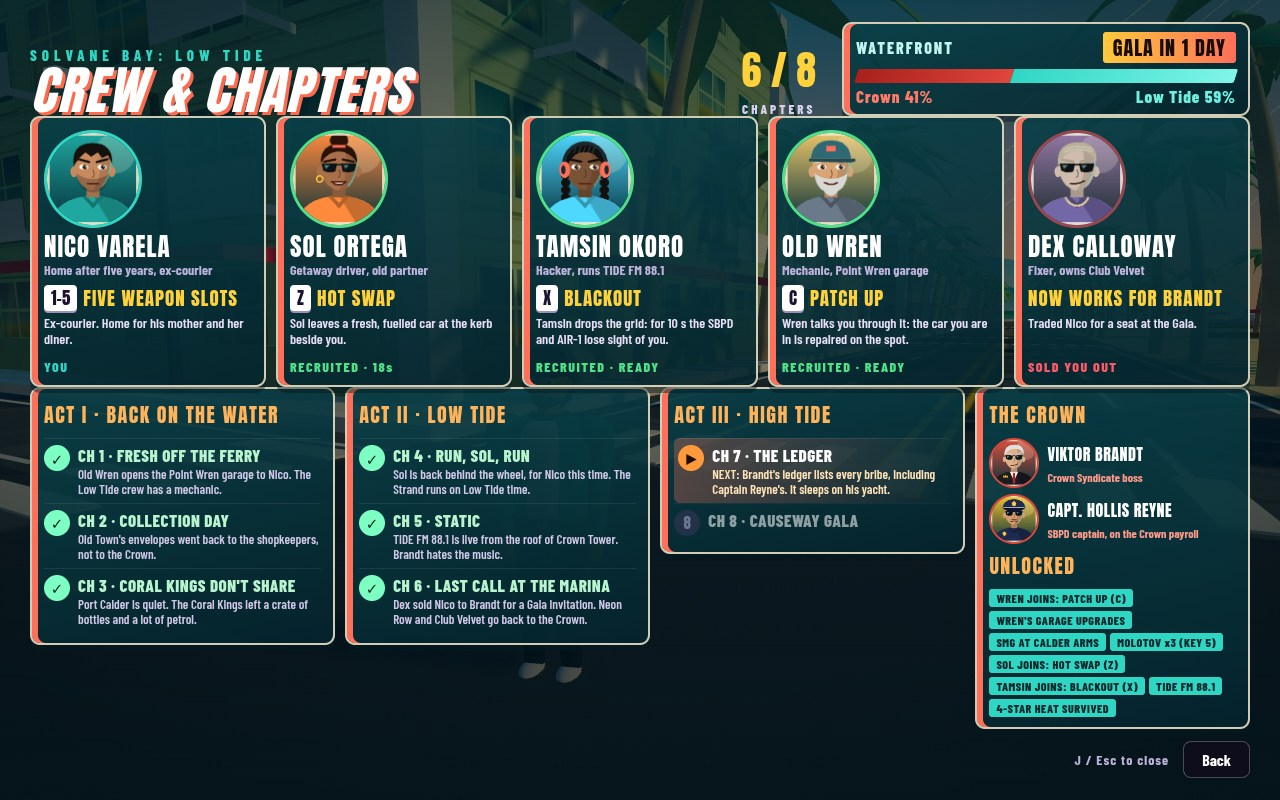
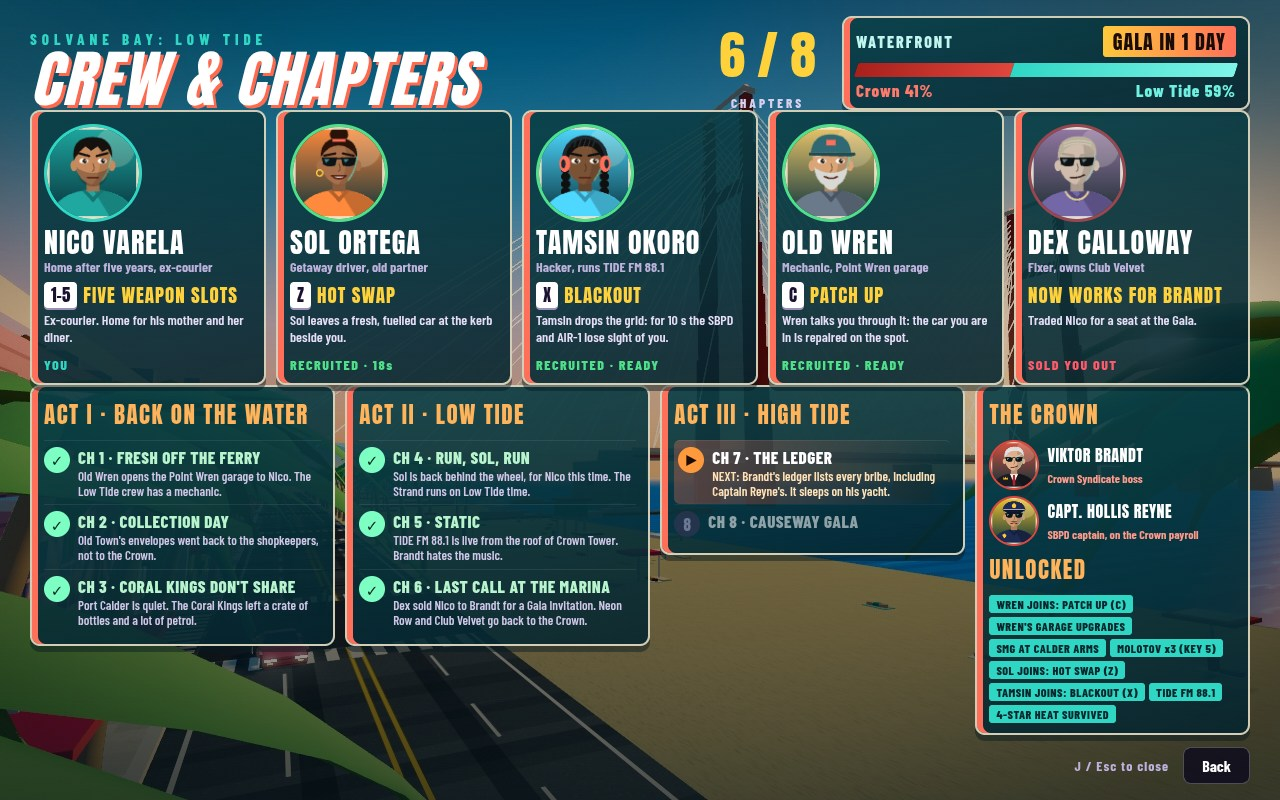
Crew & Chapters: bigger headline, chapter count, names and act titles; lighter veil over a staged Strand view with the sea and the Causeway

diff --git a/game/src/shots/screenshotScenes.js b/game/src/shots/screenshotScenes.js
@@ -122,6 +122,8 @@ function crewScreen(api) {
   const tc = (key, z, dir, col) => { const c = placeTraffic('z', N, z, dir, key, 'traffic', col); c.mesh.position.set(c.x, 0, c.z); c.mesh.rotation.y = c.heading; return c; };
   tc('tupelo', 70, 1, 0xf6c21c); tc('pico', 110, -1, 0xff8a3d);
   refreshStartMarker(); G.markers.forEach((m) => { if (m.mesh) m.mesh.visible = false; }); api.showHud(false); rig.mode = 'auto'; G.exposure = 1.2;
+  // behind the panels: the Strand at golden hour, the sand, the sea and both Causeway pylons
+  G.shotCrisp = true; G.shotCam = { pos: [HALF - 4, 9, 78], look: [HALF + 60, 24, -40], fov: 62 }; thinPalms(HALF - 4, 78, 15, 60, 6);
   for (let i = 0; i < 3; i++) api.renderFrame(true); api.showScreen('crew'); finish(api, 1); }
 // Key art: low angle on the beach road at golden hour, the VELOCE GT and Nico in front, palms, skyline and marina behind.
 function title(api) {

diff --git a/game/styles/menus.css b/game/styles/menus.css
@@ -87,3 +87,6 @@
 #title h1.logo .l2 { background-image: linear-gradient(180deg, #f0fffa 0%, #7dffe0 40%, #2fd6c4 70%, #138a96 100%); filter: drop-shadow(5px 6px 0 #ff6f59) drop-shadow(10px 12px 0 #032028); }
 #cityMap, #pause, #crew, #garage, #shop, #settings, #controls { z-index: 5; } /* menu screens sit above the HUD */
 .menu button, .panel button { border-left: 2px solid rgba(244, 232, 204, 0.7) !important; box-shadow: inset 6px 0 0 var(--tc-coral); }
+/* Crew & Chapters, legible at thumbnail size: bigger headline, count, names and act titles; a lighter veil so the city shows */
+#crew { background: linear-gradient(180deg, rgba(4, 40, 48, 0.42), rgba(4, 30, 38, 0.12) 40%, rgba(3, 22, 30, 0.55)); }
+.cchead h2 { font-size: 62px; } .ccprog b { font-size: 52px; } .ccard .nm { font-size: 28px; } .ccard kbd { white-space: nowrap; } .act h4 { font-size: 23px; }
